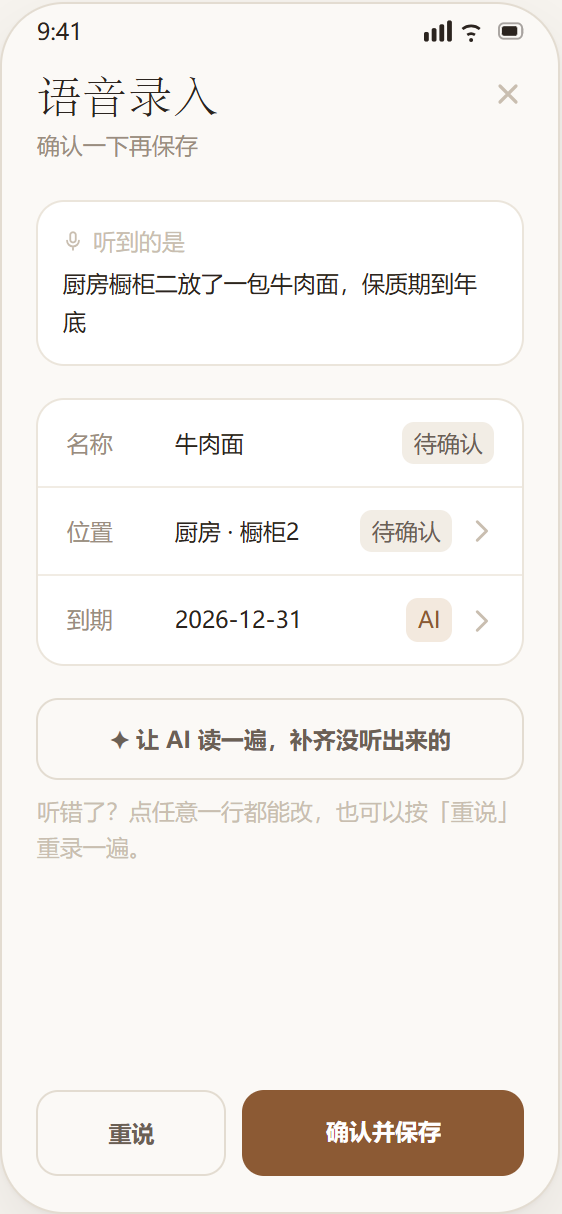
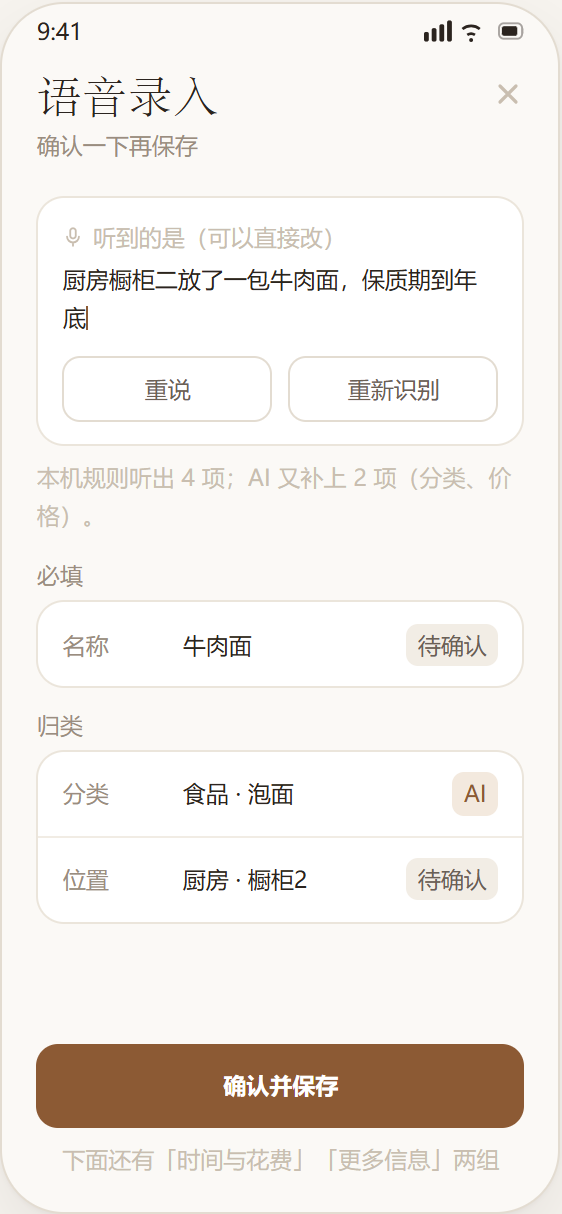
chore(screens): 界面稿与截图更新 —— 新增统计洞察 / 识物结果两屏
screens.html 补 16-stats / 17-scan-result 两屏，并同步录入、主题、AI 设置、语音的截图。

diff --git a/docs/screens.html b/docs/screens.html
@@ -144,11 +144,11 @@ footer{margin-top:80px;padding-top:28px;border-top:1px solid var(--line);font-fa
 <div class="wrap">
 
 <header class="cover">
-  <div class="eyebrow">收纳柜 App &middot; 界面设计 &middot; v2.0.0</div>
+  <div class="eyebrow">收纳柜 App &middot; 界面设计 &middot; v2.1.4</div>
   <h1>格物</h1>
   <p class="lede">东西放在哪，你记得，它也记得。一套以「位置」为骨架、以「持有成本」为情绪回报的本地收纳记录工具。</p>
   <div class="meta">
-    <span>15 屏</span>
+    <span>17 屏</span>
     <span>六套浅色 + 系统深色自动接管</span>
     <span>暖棕纸感 &middot; 衬线叙述</span>
     <span>Android &middot; 纯本地</span>
@@ -188,7 +188,7 @@ footer{margin-top:80px;padding-top:28px;border-top:1px solid var(--line);font-fa
   <div class="sec-head">
     <span class="sec-num">02</span>
     <h2>界面</h2>
-    <span class="note">十五屏 &middot; 前十屏按使用动线排列，后五屏是库存与 AI 功能的新界面</span>
+    <span class="note">十七屏 &middot; 前十屏按使用动线排列，后七屏是库存、AI 与统计功能的新界面</span>
   </div>
 
   <div class="screens">
@@ -361,6 +361,13 @@ footer{margin-top:80px;padding-top:28px;border-top:1px solid var(--line);font-fa
                 <svg width="20" height="20" viewBox="0 0 24 24" fill="none"><path d="M12 3.5l1.9 4.6 4.6 1.9-4.6 1.9-1.9 4.6-1.9-4.6L5.5 10l4.6-1.9z" stroke="#8C5A34" stroke-width="1.6" stroke-linejoin="round"/><path d="M18.5 16.5l.8 1.9 1.9.8-1.9.8-.8 1.9-.8-1.9-1.9-.8 1.9-.8z" stroke="#8C5A34" stroke-width="1.4" stroke-linejoin="round"/></svg>
                 <span style="color:#8C5A34">找封面</span>
               </div>
+              <!-- ★ 识物：同是实线品牌描边，但底色换成品牌浅底 —— 三个方块里它最像「主操作」。
+                   只有调用方（支持者档 + 已开 AI 且这家供应商能看图）传了处理函数才出现；
+                   表单自己不知道「支持者档」「有没有配 Key」这些事 -->
+              <div style="width:72px;height:72px;border-radius:11px;border:0.5px solid #8C5A34;background:#F3E9DE;display:flex;flex-direction:column;align-items:center;justify-content:center;gap:3px;flex:0 0 auto">
+                <svg width="20" height="20" viewBox="0 0 24 24" fill="none"><path d="M3.5 8V5.5a2 2 0 0 1 2-2H8M16 3.5h2.5a2 2 0 0 1 2 2V8M20.5 16v2.5a2 2 0 0 1-2 2H16M8 20.5H5.5a2 2 0 0 1-2-2V16M3.5 12h17" stroke="#8C5A34" stroke-width="1.6" stroke-linecap="round" stroke-linejoin="round"/></svg>
+                <span style="color:#8C5A34">识物</span>
+              </div>
             </div>
             <div style="color:#C9BEB0;margin-top:8px;padding:0 0 9px">图片会压缩后存入应用内，删除系统相册不影响这里</div>
           </div>
@@ -396,7 +403,7 @@ footer{margin-top:80px;padding-top:28px;border-top:1px solid var(--line);font-fa
           <div class="tb"><svg width="18" height="18" viewBox="0 0 24 24" fill="none"><circle cx="12" cy="8.2" r="3.6" stroke="#A99C8E" stroke-width="1.7"/><path d="M5 20c0-3.5 3.2-5.5 7-5.5s7 2 7 5.5" stroke="#A99C8E" stroke-width="1.7" stroke-linecap="round"/></svg><span>我的</span></div>
         </div>
       </div></div>
-      <figcaption><div class="no">03</div><div class="nm">录入 &middot; 连续录入模式</div><div class="ds">两个按钮上下叠、主按钮在上且更大：「保存并录下一件」优先于「保存并完成」。推进感靠标题下那句回执（「刚记下「X」，继续下一件」），不靠进度条 —— 上一版稿里的「第 3 件」进度条和「最多 9 张」并不存在。照片给两个入口：「添加」走本地相册，「找封面」要联网，用品牌色描边把这两件事区分开。照片这一组**没有卡片外壳**（方块自带描边，再套卡片就是两层边框）—— 卡片只给下面四组字段用，每张卡左右各留 17px，靠卡片自身的边距；这是页面上最容易漏的一处，漏了不报错、只是卡片顶到屏幕两边。这屏画到按钮为止，中间还有「归类 / 时间与花费 / 更多信息」三组字段，只有名称必填。「数量」排在「时间与花费」组里、「过期时间」下面那一行，占位提示是「留空 = 只此一件」—— <b>留空是单件物品，不是 0</b>，所以老用户不改任何东西，行为一个字节都不变。录入是 tab 路由，底部标签栏一直在；中央那颗 + 永远品牌色、永远不带文字，所以「当前在录入页」不会让标签栏有任何变化。</div></figcaption>
+      <figcaption><div class="no">03</div><div class="nm">录入 &middot; 连续录入模式</div><div class="ds">两个按钮上下叠、主按钮在上且更大：「保存并录下一件」优先于「保存并完成」。推进感靠标题下那句回执（「刚记下「X」，继续下一件」），不靠进度条 —— 上一版稿里的「第 3 件」进度条和「最多 9 张」并不存在。照片给三个入口：「添加」走本地相册，「找封面」要联网，「识物」要联网 + 花你自己的 Key —— 后两个用品牌色区分开，识物再加一层品牌浅底，三个方块里它最像主操作。<b>识物只在支持者档 + AI 已开 + 这家供应商看得懂图时才出现</b>（表单不知道这三件事，由调用方决定传不传处理函数）—— 留一个点下去必然报错的按钮，比没有这个按钮更糟。照片这一组**没有卡片外壳**（方块自带描边，再套卡片就是两层边框）—— 卡片只给下面四组字段用，每张卡左右各留 17px，靠卡片自身的边距；这是页面上最容易漏的一处，漏了不报错、只是卡片顶到屏幕两边。这屏画到按钮为止，中间还有「归类 / 时间与花费 / 更多信息」三组字段，只有名称必填。「数量」排在「时间与花费」组里、「过期时间」下面那一行，占位提示是「留空 = 只此一件」—— <b>留空是单件物品，不是 0</b>，所以老用户不改任何东西，行为一个字节都不变。录入是 tab 路由，底部标签栏一直在；中央那颗 + 永远品牌色、永远不带文字，所以「当前在录入页」不会让标签栏有任何变化。</div></figcaption>
     </figure>
 
     <!-- 04 -->
@@ -1049,14 +1056,15 @@ footer{margin-top:80px;padding-top:28px;border-top:1px solid var(--line);font-fa
           <div style="color:#C9BEB0;margin-top:5px">没有 Key？到 bigmodel.cn 手机号注册即领 <span style="color:#8C5A34">↗</span></div>
         </div>
 
-        <!-- ★ 语音单列一行：它跟上面两个不是一回事 —— 不需要 Key、不联网、也不申请麦克风权限。
-             不写清这一点，用户会以为「关掉 AI 就没有语音录入」 -->
+        <!-- ★ 语音单列一行：它跟上面两个不是一回事 —— 不需要 Key、不联网、也不申请麦克风权限
+             （走系统识别对话框）。所以它的值写「不耗 Key」而不是「免费」——
+             它与识物、问答同属支持者档，共用上面那个总闸，写「免费」会被读成「整件事不要钱」 -->
         <div style="padding:10px 17px 0;flex:0 0 auto">
           <div style="color:#9A8D80;padding-bottom:5px">模型</div>
           <div style="background:#fff;border:0.5px solid #EBE5DB;border-radius:14px;overflow:hidden">
             <div class="fr"><span class="fk">识图</span><span class="fv">GLM-4.6V-Flash · 免费</span></div>
             <div class="fr"><span class="fk">问答</span><span class="fv">GLM-4.7-Flash · 免费</span></div>
-            <div class="fr"><span class="fk">语音</span><span class="fv">系统识别 · 免费</span></div>
+            <div class="fr"><span class="fk">语音</span><span class="fv">系统识别 · 不耗 Key</span></div>
           </div>
         </div>
 
@@ -1073,8 +1081,7 @@ footer{margin-top:80px;padding-top:28px;border-top:1px solid var(--line);font-fa
           </div>
         </div>
       </div></div>
-      <figcaption><div class="no">13</div><div class="nm">AI 助手 &middot; 设置页</div><div class="ds">这一页要把三件事同时说清，缺一件用户就会犹豫：<b>要不要花钱</b>（两个模型都是免费档，写在模型行上，不藏在说明里）、<b>数据去哪了</b>（上传的只是 ≤1024px 压缩副本）、<b>关掉会怎样</b>（关掉开关等于这条链路不存在，其它功能一个不少）。所以顺序是「总开关 → 凭证 → 模型 → 用量 → 隐私」—— 先答「会不会偷偷联网」，再轮到「Key 怎么填」。<br>用量卡是刻意的：让用户随时看见花了多少钱，他才有底气把开关一直开着。这里恒为 &#165;0.00（两个模型都免费），但那个数字仍然由 <code>estimateMonthlyCost</code> 算出来而不是写死 —— 将来换一档模型，它会自己变。<br><b>语音单独一行</b>，因为它跟上面两个不是一回事：不需要 Key、不联网、也不申请麦克风权限（走系统识别对话框）。不写清这一点，用户会以为「关掉 AI 就没有语音录入」。<br>这一页是长页，稿子画到用量卡为止；下面还有一张「隐私」卡。未激活的档位进来时整页只剩一句解释与一个出口 —— <b>不做成「能看不能按」，灰按钮看起来像坏了</b>，而用户真正需要的是知道怎么解锁。</div></figcaption>
-    </figure>
+      <figcaption><div class="no">13</div><div class="nm">AI 助手 &middot; 设置页</div><div class="ds">这一页要把三件事同时说清，缺一件用户就会犹豫：<b>要不要花钱</b>（两个模型都是免费档，写在模型行上，不藏在说明里）、<b>数据去哪了</b>（上传的只是 ≤1024px 压缩副本）、<b>关掉会怎样</b>（关掉开关等于这条链路不存在，其它功能一个不少）。所以顺序是「总开关 → 凭证 → 模型 → 用量 → 隐私」—— 先答「会不会偷偷联网」，再轮到「Key 怎么填」。<br>用量卡是刻意的：让用户随时看见花了多少钱，他才有底气把开关一直开着。这里恒为 &#165;0.00（两个模型都免费），但那个数字仍然由 <code>estimateMonthlyCost</code> 算出来而不是写死 —— 将来换一档模型，它会自己变。<br><b>语音单独一行</b>，因为它跟上面两个不是一回事：不需要 Key、不联网、也不申请麦克风权限（走系统识别对话框），所以它的值写「不耗 Key」而非「免费」—— 它与识物、问答同属支持者档，共用上面那个总闸；写「免费」会被读成「整件事不要钱」。<br>这一页是长页，稿子画到用量卡为止；下面还有一张「隐私」卡。未激活的档位进来时整页只剩一句解释与一个出口 —— <b>不做成「能看不能按」，灰按钮看起来像坏了</b>，而用户真正需要的是知道怎么解锁。</div></figcaption>    </figure>
 
     <!-- 14 -->
     <figure class="fig" data-slug="ask">
@@ -1149,55 +1156,150 @@ footer{margin-top:80px;padding-top:28px;border-top:1px solid var(--line);font-fa
           <svg width="16" height="16" viewBox="0 0 16 16" fill="none" style="margin-top:4px;flex:0 0 auto"><path d="M4 4l8 8M12 4l-8 8" stroke="#C9BEB0" stroke-width="1.6" stroke-linecap="round"/></svg>
         </div>
 
-        <div style="padding:18px 17px 0;flex:0 0 auto">
+        <!-- ★ 转写卡走在 ItemForm 的 header 插槽里，与字段一起滚 ——
+             外面再套一层滚动容器会让两个垂直 ScrollView 抢手势。
+             转写那句话**可直接编辑**：听错一个字不必重说整句，
+             「重说」要重走一遍系统识别框，还不一定比上次准 -->
+        <div style="padding:16px 17px 0;flex:0 0 auto">
           <div style="background:#fff;border:0.5px solid #EBE5DB;border-radius:14px;padding:11px 12px">
-            <div style="display:flex;align-items:center;gap:4px;color:#C9BEB0"><svg width="11" height="11" viewBox="0 0 24 24" fill="none"><rect x="9" y="2.5" width="6" height="11" rx="3" stroke="#C9BEB0" stroke-width="2"/><path d="M5.5 11.5a6.5 6.5 0 0 0 13 0M12 18v3.5" stroke="#C9BEB0" stroke-width="2" stroke-linecap="round"/></svg>听到的是</div>
-            <div style="margin-top:3px;line-height:1.7">厨房橱柜二放了一包牛肉面，保质期到年底</div>
+            <div style="display:flex;align-items:center;gap:4px;color:#C9BEB0"><svg width="11" height="11" viewBox="0 0 24 24" fill="none"><rect x="9" y="2.5" width="6" height="11" rx="3" stroke="#C9BEB0" stroke-width="2"/><path d="M5.5 11.5a6.5 6.5 0 0 0 13 0M12 18v3.5" stroke="#C9BEB0" stroke-width="2" stroke-linecap="round"/></svg>听到的是（可以直接改）</div>
+            <div style="margin-top:3px;line-height:1.7">厨房橱柜二放了一包牛肉面，保质期到年底<span style="display:inline-block;width:1.5px;height:12px;background:#8C5A34;vertical-align:-2px"></span></div>
+            <div style="display:flex;gap:8px;margin-top:9px">
+              <div style="flex:1;text-align:center;padding:7px;border-radius:9px;border:0.5px solid #E3DCD1;color:#6B6055">重说</div>
+              <div style="flex:1;text-align:center;padding:7px;border-radius:9px;border:0.5px solid #E3DCD1;color:#6B6055">重新识别</div>
+            </div>
           </div>
+          <!-- 照实说 AI 那一步的结果：写「已让 AI 读过一遍」是假话，
+               失败时用户会以为「这么简单都识别不了」，而真相可能是「模型根本没连上」 -->
+          <div style="color:#C9BEB0;margin-top:7px;line-height:1.6">本机规则听出 4 项；AI 又补上 2 项（分类、价格）。</div>
         </div>
 
-        <!-- ★ 行尾那枚小标的两种含义必须分得开：
-             「待确认」＝本地规则听出来的，「AI」＝模型补出来的，后者把握更小 -->
-        <div style="padding:16px 17px 0;flex:0 0 auto">
+        <!-- ★ 下面是**手动录入那张表**（ItemForm）：语音页不再自己造一套字段。
+             所以「语音能填哪些东西」与「手动能填哪些东西」永远一致 ——
+             上一版在语音页另画三行，于是「价格 / 购买日期 / 库存说了也白说」。
+             行尾那枚小标的两种含义必须分得开：「待确认」＝本地规则听出来的，
+             「AI」＝模型补出来的，后者把握更小；模型只补空着的行，绝不覆盖已有值 -->
+        <div style="margin:12px 17px 0;flex:0 0 auto">
+          <div style="color:#9A8D80;margin-bottom:4px">必填</div>
           <div style="background:#fff;border:0.5px solid #EBE5DB;border-radius:14px;overflow:hidden">
-            <div style="display:flex;align-items:center;gap:8px;padding:11px 14px;border-bottom:0.5px solid #F1ECE4">
-              <span style="color:#9A8D80;width:46px;flex:0 0 auto">名称</span>
-              <span style="flex:1;min-width:0;font-weight:500">牛肉面</span>
-              <span class="tgn" style="color:#6B6055">待确认</span>
-            </div>
-            <div style="display:flex;align-items:center;gap:8px;padding:11px 14px;border-bottom:0.5px solid #F1ECE4">
-              <span style="color:#9A8D80;width:46px;flex:0 0 auto">位置</span>
-              <span style="flex:1;min-width:0;font-weight:500">厨房 &middot; 橱柜2</span>
-              <span class="tgn" style="color:#6B6055">待确认</span>
-              <svg width="13" height="13" viewBox="0 0 14 14" fill="none" style="flex:0 0 auto"><path d="M5 2l5 5-5 5" stroke="#C9BEB0" stroke-width="1.6" stroke-linecap="round" stroke-linejoin="round"/></svg>
-            </div>
-            <div style="display:flex;align-items:center;gap:8px;padding:11px 14px">
-              <span style="color:#9A8D80;width:46px;flex:0 0 auto">到期</span>
-              <span style="flex:1;min-width:0;font-weight:500;font-variant-numeric:tabular-nums">2026-12-31</span>
-              <span class="tg">AI</span>
-              <svg width="13" height="13" viewBox="0 0 14 14" fill="none" style="flex:0 0 auto"><path d="M5 2l5 5-5 5" stroke="#C9BEB0" stroke-width="1.6" stroke-linecap="round" stroke-linejoin="round"/></svg>
-            </div>
+            <div class="fr" style="min-height:42px"><span class="fk" style="width:52px">名称</span><span class="fv" style="flex:1;text-align:left">牛肉面</span><span class="tgn" style="color:#6B6055">待确认</span></div>
+          </div>
+        </div>
+        <div style="margin:10px 17px 0;flex:0 0 auto">
+          <div style="color:#9A8D80;margin-bottom:4px">归类</div>
+          <div style="background:#fff;border:0.5px solid #EBE5DB;border-radius:14px;overflow:hidden">
+            <div class="fr" style="min-height:42px"><span class="fk" style="width:52px">分类</span><span class="fv" style="flex:1;text-align:left">食品 &middot; 泡面</span><span class="tg">AI</span></div>
+            <div class="fr" style="min-height:42px"><span class="fk" style="width:52px">位置</span><span class="fv" style="flex:1;text-align:left">厨房 &middot; 橱柜2</span><span class="tgn" style="color:#6B6055">待确认</span></div>
           </div>
         </div>
 
-        <!-- 「让 AI 读一遍」只在两条件下出现：这一档能用 AI，且确实还有没听出来的行。
-             三行都填上了就没有可补的，多一个按钮只是噪音。免费档不做灰按钮 ——
-             语音本身不该因为 AI 而被加门槛 -->
-        <div style="padding:16px 17px 0;flex:0 0 auto">
-          <div style="border:0.5px solid #E3DCD1;border-radius:11px;padding:11px;text-align:center;color:#6B6055;font-weight:600">✦ 让 AI 读一遍，补齐没听出来的</div>
-          <div style="color:#C9BEB0;margin-top:7px;line-height:1.6">听错了？点任意一行都能改，也可以按「重说」重录一遍。</div>
-        </div>
-
-        <div style="margin-top:auto;padding:0 17px 18px;display:flex;gap:8px;flex:0 0 auto">
-          <div style="flex:1;text-align:center;padding:12px;border-radius:11px;border:0.5px solid #E3DCD1;color:#6B6055;font-weight:600">重说</div>
-          <div style="flex:1.7;text-align:center;padding:12px;border-radius:11px;background:#8C5A34;color:#fff;font-weight:600">确认并保存</div>
+        <!-- 提交按钮由 ItemForm 出，整幅宽 —— 「重说」已经上移到转写卡里，
+             底部不再与它分权重。这屏画到「归类」为止：下面还有「时间与花费」
+             （购买日期 / 价格 / 过期时间 / 数量）与「更多信息」两组，与手动录入完全一致 -->
+        <div style="margin-top:auto;padding:12px 17px 18px;flex:0 0 auto">
+          <div style="text-align:center;padding:12px;border-radius:11px;background:#8C5A34;color:#fff;font-weight:600">确认并保存</div>
+          <div style="text-align:center;color:#C9BEB0;margin-top:7px">下面还有「时间与花费」「更多信息」两组</div>
         </div>
       </div></div>
-      <figcaption><div class="no">15</div><div class="nm">语音录入 &middot; 确认三行</div><div class="ds">一句话 → 三个字段。说的是「厨房橱柜二放了一包牛肉面，保质期到年底」，拿到的是 名称 牛肉面 / 位置 厨房&middot;橱柜2 / 到期 12-31，<b>然后停下来等你确认</b>。<br>三条不变量：<br>① <b>绝不直接入库</b>。识别有误差，结果一律先落到这三行里，点「确认并保存」才写库。<br>② <b>不申请录音权限</b>。识别走系统对话框，录音发生在识别器 App 里，格物的权限清单一个字节都不变 —— 代价是会离开 App、拿不到实时转写、部分 ROM 没有识别器。<br>③ <b>解析可以不准，界面必须诚实</b>。没听懂的行写「未识别」并留出改的入口，不拿一个猜出来的值冒充听懂了 —— 猜错的东西用户不一定发现，而「未识别」他一定会看见。<br>行尾那枚小标的两种含义必须分得开：「待确认」＝本地规则听出来的，「AI」＝模型补出来的，后者把握更小。<b>AI 只补空着的行，绝不覆盖已有值</b>，而且位置不参与 —— 模型不知道你的柜子叫什么，补出来的必然是编的。用户手动一动某一行，那一行的「AI」标就摘掉。<br>底部两个按钮 1 : 1.7，「重说」让位给「确认并保存」；待机态则是居中波形 + 一个「开始说话」大按钮。<b>波形是装饰不是音量表</b> —— 走系统识别时录音在另一个进程里，拿不到任何音频数据，所以只做匀速呼吸的错相动画，不做「跟着说话起伏」的假象：那会让人以为它真在听。</div></figcaption>
+      <figcaption><div class="no">15</div><div class="nm">语音录入 &middot; 转写 + 复用录入表单</div><div class="ds">说的是「厨房橱柜二放了一包牛肉面，保质期到年底」，拿到的是 名称 牛肉面 / 分类 食品&middot;泡面 / 位置 厨房&middot;橱柜2，<b>然后停下来等你确认</b>。<br>★ <b>这一页复用的就是手动录入那张表</b>（ItemForm，隐去照片区、顶部插一张转写卡）。上一版语音页自己另写了一套三行字段，于是「价格 / 购买日期 / 库存说了也白说」——那三项在手动表单里一直都在，只是语音这条路没接上。<b>同一件事两套实现，代价就是「支持哪些属性」要在两边各答一遍，然后必然答歪一边。</b>现在表单加字段，语音这条路自动跟上，不用改三遍。<br>三条不变量：<br>① <b>绝不直接入库</b>。识别有误差，结果一律先落到字段里，点「确认并保存」才写库。<br>② <b>不申请录音权限</b>。识别走系统对话框，录音发生在识别器 App 里，格物的权限清单一个字节都不变 —— 代价是会离开 App、拿不到实时转写、部分 ROM 没有识别器。<br>③ <b>解析可以不准，界面必须诚实</b>。没听懂的行留空并留出改的入口，不拿一个猜出来的值冒充听懂了。<br>转写卡里那句话<b>可以直接改</b>：听错一个字不必重说整句（「重说」要重走一遍系统识别框，还不一定比上次准），改完按「重新识别」按新文字重跑一次。卡下那行小字是 AI 那一步的<b>照实汇报</b>——「本地规则听出 4 项；AI 又补上 2 项」。上一版无论成败都写「已让 AI 读过一遍」，那是假话：「模型没连上」与「本机规则没听懂」这两件完全不同的事，在用户眼里长得一样。<br>行尾那枚小标的两种含义必须分得开：「待确认」＝本地规则听出来的，「AI」＝模型补出来的，后者把握更小。<b>AI 只补空着的行，绝不覆盖已有值</b>，而且位置不参与 —— 模型不知道你的柜子叫什么，补出来的必然是编的。用户手动一动某一行，那一行的「AI」标就摘掉。<br>底部只剩一个整幅宽的「确认并保存」——「重说」已经上移到转写卡里，不再分权重；待机态则是居中波形 + 一个「开始说话」大按钮。<b>波形是装饰不是音量表</b> —— 走系统识别时录音在另一个进程里，拿不到任何音频数据，所以只做匀速呼吸的错相动画，不做「跟着说话起伏」的假象：那会让人以为它真在听。</div></figcaption>
     </figure>
 
-  </div>
-</section>
+    <!-- 16 -->
+    <figure class="fig" data-slug="stats">
+      <div class="shot"><div class="ph">
+        <div class="sb"><span style="font-weight:500">9:41</span><svg width="50" height="11" viewBox="0 0 52 11" fill="none"><rect x="0" y="6" width="2.5" height="5" rx="1" fill="#2B241F"/><rect x="4" y="4" width="2.5" height="7" rx="1" fill="#2B241F"/><rect x="8" y="2" width="2.5" height="9" rx="1" fill="#2B241F"/><rect x="12" y="0" width="2.5" height="11" rx="1" fill="#2B241F"/><path d="M20 4.5a7 7 0 0 1 9 0" stroke="#2B241F" stroke-width="1.4" fill="none"/><path d="M22.5 7.5a3.5 3.5 0 0 1 4 0" stroke="#2B241F" stroke-width="1.4" fill="none"/><circle cx="24.5" cy="10.2" r="1" fill="#2B241F"/><rect x="39" y="1.5" width="12" height="8" rx="2.5" stroke="#2B241F" stroke-opacity=".4" fill="none"/><rect x="40.5" y="3" width="8" height="5" rx="1.2" fill="#2B241F"/><rect x="51.8" y="4" width="1.4" height="3" rx=".7" fill="#2B241F" fill-opacity=".4"/></svg></div>
+        <div style="padding:2px 17px 0;flex:0 0 auto">
+          <div style="width:27px;height:27px;border-radius:50%;background:#fff;border:0.5px solid #EBE5DB;display:flex;align-items:center;justify-content:center"><svg width="13" height="13" viewBox="0 0 14 14" fill="none"><path d="M9 2 4 7l5 5" stroke="#2B241F" stroke-width="1.7" stroke-linecap="round" stroke-linejoin="round"/></svg></div>
+        </div>
+        <div style="padding:4px 17px 0;flex:0 0 auto"><div class="hd">统计洞察</div></div>
+
+        <!-- 总览：MetricStrip「值在上、标签在下」。这一页是长页，稿子画到「每天在烧多少钱」为止 -->
+        <div style="margin:12px 17px 0;background:#fff;border-radius:12px;border:0.5px solid #EBE5DB;display:flex;overflow:hidden">
+          <div class="cell" style="flex:1;align-items:center;padding:9px 8px"><span style="font-size:13px;font-weight:600;font-variant-numeric:tabular-nums">329</span><span style="color:#9A8D80;margin-top:2px;font-size:11px">在库物品</span></div>
+          <div class="cell" style="flex:1;align-items:center;padding:9px 8px;border-left:0.5px solid #EBE5DB"><span style="font-size:13px;font-weight:600;font-variant-numeric:tabular-nums">&#165;42,680</span><span style="color:#9A8D80;margin-top:2px;font-size:11px">总价值</span></div>
+          <div class="cell" style="flex:1;align-items:center;padding:9px 8px;border-left:0.5px solid #EBE5DB"><span style="font-size:13px;font-weight:600;font-variant-numeric:tabular-nums;color:#8C5A34">&#165;38.60</span><span style="color:#9A8D80;margin-top:2px;font-size:10px">日均持有成本</span></div>
+        </div>
+        <!-- ★ 两处口径必须写在页面上：总价值的分母与日均合计的分母不是同一批人。
+             不写清楚，用户会拿日均去对逐件相加，对不上就以为数据错了 -->
+        <div style="color:#C9BEB0;margin:7px 17px 0;line-height:1.55">总价值按 268 件有价格的算；日均合计只算同时填了价格与购买日期的 251 件。</div>
+
+        <div style="margin:12px 17px 0;flex:0 0 auto">
+          <div style="display:flex;justify-content:space-between;align-items:baseline;gap:8px"><span style="font-weight:500">钱花在哪</span><span style="color:#C9BEB0">按分类合计</span></div>
+          <div style="background:#fff;border:0.5px solid #EBE5DB;border-radius:14px;margin-top:6px;padding:9px 11px">
+            <div style="display:flex;align-items:center;gap:8px;padding:5px 0"><span style="color:#6B6055;width:34px;flex:0 0 auto">数码</span><div style="flex:1;height:8px;border-radius:4px;background:#F2EDE5;overflow:hidden"><div style="width:100%;height:100%;border-radius:4px;background:#8C5A34"></div></div><span style="width:52px;text-align:right;flex:0 0 auto">&#165;18,420</span></div>
+            <div style="display:flex;align-items:center;gap:8px;padding:5px 0;border-top:0.5px solid #F1ECE4"><span style="color:#6B6055;width:34px;flex:0 0 auto">家电</span><div style="flex:1;height:8px;border-radius:4px;background:#F2EDE5;overflow:hidden"><div style="width:54%;height:100%;border-radius:4px;background:#9A8D80"></div></div><span style="width:52px;text-align:right;flex:0 0 auto">&#165;9,860</span></div>
+            <div style="display:flex;align-items:center;gap:8px;padding:5px 0;border-top:0.5px solid #F1ECE4"><span style="color:#6B6055;width:34px;flex:0 0 auto">工具</span><div style="flex:1;height:8px;border-radius:4px;background:#F2EDE5;overflow:hidden"><div style="width:28%;height:100%;border-radius:4px;background:#9A8D80"></div></div><span style="width:52px;text-align:right;flex:0 0 auto">&#165;5,240</span></div>
+            <div style="display:flex;align-items:center;gap:8px;padding:5px 0;border-top:0.5px solid #F1ECE4"><span style="color:#9A8D80;width:34px;flex:0 0 auto">其他</span><div style="flex:1;height:8px;border-radius:4px;background:#F2EDE5;overflow:hidden"><div style="width:50%;height:100%;border-radius:4px;background:#D8D0C4"></div></div><span style="width:52px;text-align:right;flex:0 0 auto;color:#9A8D80">&#165;9,160</span></div>
+          </div>
+          <!-- 满格基准是榜首那一类，不是总额；汇总项永远排最后、数字转灰 -->
+          <div style="color:#C9BEB0;margin-top:6px;line-height:1.55">条长以最高的一类为满格。合计 &#165;42,680 与上方「总价值」同源。</div>
+        </div>
+
+        <div style="margin:10px 17px 0;flex:0 0 auto">
+          <div style="display:flex;justify-content:space-between;align-items:baseline;gap:8px"><span style="font-weight:500">每天在烧多少钱</span><span style="color:#C9BEB0">持有成本最高的 3 件</span></div>
+          <div style="background:#fff;border:0.5px solid #EBE5DB;border-radius:14px;margin-top:6px;overflow:hidden">
+            <div class="fr" style="min-height:34px"><span class="fv" style="flex:1;text-align:left;white-space:nowrap;overflow:hidden;text-overflow:ellipsis">iPhone 15 Pro</span><span style="color:#9A8D80">322 天</span><span class="fv" style="width:56px">&#165;24.40<span style="color:#9A8D80;font-weight:400">/天</span></span></div>
+            <div class="fr" style="min-height:34px"><span class="fv" style="flex:1;text-align:left;white-space:nowrap;overflow:hidden;text-overflow:ellipsis">博世冲击钻</span><span style="color:#9A8D80">803 天</span><span class="fv" style="width:56px">&#165;0.58<span style="color:#9A8D80;font-weight:400">/天</span></span></div>
+            <div class="fr" style="min-height:34px"><span class="fv" style="flex:1;text-align:left;white-space:nowrap;overflow:hidden;text-overflow:ellipsis">人体工学椅</span><span style="color:#9A8D80">46 天</span><span class="fv" style="width:56px">&#165;32.60<span style="color:#9A8D80;font-weight:400">/天</span></span></div>
+          </div>
+          <div style="color:#C9BEB0;margin-top:6px;line-height:1.55">摆天数而不是再给一个金额：日均高有两种原因 —— 贵，还是刚买。</div>
+        </div>
+      </div></div>
+      <figcaption><div class="no">16</div><div class="nm">统计洞察 &middot; 钱花在哪、每天烧多少</div><div class="ds">四块：<b>总览</b>（多少件、总价值、日均持有成本）、<b>钱花在哪</b>（按分类合计的条形）、<b>每天在烧多少钱</b>（持有成本最高的几件）、<b>柜子都塞满了吗</b>与<b>最近半年</b>（入库趋势，这屏画不下，在下面）。<br>★ <b>两处口径必须写在页面上</b>，这是这一页最容易挨骂的地方：总价值的分母是「填了价格的 268 件」，日均合计的分母是「价格与购买日期都齐备的 251 件」——<b>两个数的样本不一样</b>。不写清楚，用户会拿日均去对逐件相加，对不上就以为数据算错了。所以每个数字旁边都标样本数，条形图下面也再写一句「与上方总价值同源」。<br><b>条形图以最大值为满格，不是按占比。</b>只有两件东西时按占比画两根条都会顶满，看着像坏了；按最大值基准，差距才看得出来。汇总项「其他」永远排最后、数字转灰——插在中间会打断「谁最烧钱」的阅读顺序。<br>「每天在烧多少钱」旁边摆的是<b>天数而不是又一个金额</b>：日均高有两种原因，贵，或者刚买，光看钱分不出来。算法与详情页那张成本卡同一套，缺价格或购买日期的物品不出现在这里。<br>排行不足三行时整块收起（两块东西排「前十」是凑数）；「记了东西但一件都没填价格」会得到一条卡内提示，而不是一个空页面。<br>空库时整页换成一句「先记几件东西，这里会告诉你钱花在哪、每天在烧多少、柜子塞到几成」，给一个「去记一件」的出口。未激活的支持者档进来时整页只剩一句解释与一个出口 —— 与 AI 助手那一页同构，<b>不做成「能看不能按」</b>。</div></figcaption>
+    </figure>
+
+    <!-- 17 -->
+    <figure class="fig" data-slug="scan-result">
+      <div class="shot"><div class="ph">
+        <div class="sb"><span style="font-weight:500">9:41</span><svg width="50" height="11" viewBox="0 0 52 11" fill="none"><rect x="0" y="6" width="2.5" height="5" rx="1" fill="#2B241F"/><rect x="4" y="4" width="2.5" height="7" rx="1" fill="#2B241F"/><rect x="8" y="2" width="2.5" height="9" rx="1" fill="#2B241F"/><rect x="12" y="0" width="2.5" height="11" rx="1" fill="#2B241F"/><path d="M20 4.5a7 7 0 0 1 9 0" stroke="#2B241F" stroke-width="1.4" fill="none"/><path d="M22.5 7.5a3.5 3.5 0 0 1 4 0" stroke="#2B241F" stroke-width="1.4" fill="none"/><circle cx="24.5" cy="10.2" r="1" fill="#2B241F"/><rect x="39" y="1.5" width="12" height="8" rx="2.5" stroke="#2B241F" stroke-opacity=".4" fill="none"/><rect x="40.5" y="3" width="8" height="5" rx="1.2" fill="#2B241F"/><rect x="51.8" y="4" width="1.4" height="3" rx=".7" fill="#2B241F" fill-opacity=".4"/></svg></div>
+        <div style="padding:2px 17px 0;display:flex;align-items:flex-start;justify-content:space-between;gap:8px;flex:0 0 auto">
+          <div>
+            <div class="hd">录入</div>
+            <div style="color:#9A8D80;margin-top:3px">识别完成 &middot; 用时 1.2 秒</div>
+          </div>
+          <svg width="16" height="16" viewBox="0 0 16 16" fill="none" style="margin-top:4px;flex:0 0 auto"><path d="M4 4l8 8M12 4l-8 8" stroke="#C9BEB0" stroke-width="1.6" stroke-linecap="round"/></svg>
+        </div>
+
+        <!-- ★ 识物不另开一页：照片落进沙盒，识别结果**回填手动录入那张表** -->
+        <div style="margin:11px 17px 0;flex:0 0 auto">
+          <div style="color:#9A8D80;margin-bottom:4px">照片（1）</div>
+          <div style="display:flex;gap:8px;padding:4px 0">
+            <div style="width:72px;height:72px;border-radius:11px;border:0.5px solid #E3DCD1;background:#F5EFE0;display:flex;align-items:center;justify-content:center;flex:0 0 auto">
+              <svg width="26" height="26" viewBox="0 0 24 24" fill="none"><rect x="6" y="2.5" width="12" height="19" rx="2" stroke="#8A6B33" stroke-width="1.5"/><path d="M9.5 7h5M9.5 10.5h5" stroke="#8A6B33" stroke-width="1.4" stroke-linecap="round"/></svg>
+            </div>
+            <div style="width:72px;height:72px;border-radius:11px;border:0.5px dashed #E3DCD1;background:#FDFCFA;display:flex;flex-direction:column;align-items:center;justify-content:center;gap:3px;flex:0 0 auto">
+              <svg width="20" height="20" viewBox="0 0 24 24" fill="none"><rect x="2.5" y="6.5" width="19" height="13" rx="3" stroke="#9A8D80" stroke-width="1.6"/><circle cx="12" cy="13" r="3.4" stroke="#9A8D80" stroke-width="1.6"/><path d="M8.6 6.5 10 4.2h4l1.4 2.3" stroke="#9A8D80" stroke-width="1.6" stroke-linejoin="round"/></svg>
+              <span style="color:#9A8D80">添加</span>
+            </div>
+          </div>
+          <div style="color:#C9BEB0;margin-top:4px">识别副本已压到长边 1024px，原图留在本机</div>
+        </div>
+
+        <!-- 「AI」标 = 模型填的那一行，而且**可改**：用户动一下这一行，标就摘掉 -->
+        <div style="margin:9px 17px 0;flex:0 0 auto">
+          <div style="color:#9A8D80;margin-bottom:4px">归类</div>
+          <div style="background:#fff;border:0.5px solid #EBE5DB;border-radius:14px;overflow:hidden">
+            <div class="fr" style="min-height:40px"><span class="fk" style="width:52px">名称</span><span class="fv" style="flex:1;text-align:left;white-space:nowrap;overflow:hidden;text-overflow:ellipsis">康师傅老陈醋酸辣牛肉面</span><span class="tg">AI</span></div>
+            <div class="fr" style="min-height:40px"><span class="fk" style="width:52px">分类</span><span class="fv" style="flex:1;text-align:left">食品 &middot; 泡面</span><span class="tg">AI</span></div>
+          </div>
+        </div>
+        <div style="margin:9px 17px 0;flex:0 0 auto">
+          <div style="color:#9A8D80;margin-bottom:4px">时间与花费</div>
+          <div style="background:#fff;border:0.5px solid #EBE5DB;border-radius:14px;overflow:hidden">
+            <div class="fr" style="min-height:40px"><span class="fk" style="width:52px">价格</span><span class="fv" style="flex:1;text-align:left;font-variant-numeric:tabular-nums">&#165;6.50</span><span class="tg">AI</span></div>
+            <div class="fr" style="min-height:40px"><span class="fk" style="width:52px">过期时间</span><span class="fv" style="flex:1;text-align:left;font-variant-numeric:tabular-nums">2027-04-10</span><span class="tgn" style="color:#6B6055">按分类默认</span></div>
+          </div>
+        </div>
+
+        <!-- ★ 提示紧贴触发它的入口。上一版放在表单最底部，而识物按钮在页面顶部，
+             提示一直都在、只是没人会滚到底去看见它，观感就是「点了没反应」 -->
+        <div style="margin-top:auto;padding:12px 17px 18px;flex:0 0 auto">
+          <div style="text-align:center;color:#9A8D80;margin-bottom:7px">识别只是预填，保存前你说了算</div>
+          <div style="text-align:center;padding:12px;border-radius:11px;background:#8C5A34;color:#fff;font-weight:600">保存并录下一件</div>
+        </div>
+      </div></div>
+      <figcaption><div class="no">17</div><div class="nm">录入 &middot; 识物跑完之后</div><div class="ds">拍一张包装，回来看到的就是这一屏：名称、分类、价格、过期时间都已经填好，行尾挂着一枚「AI」标。<b>保存前你把关就行</b> —— 三十秒的敲字变成三秒。<br>★ <b>识物不另开一页。</b>它与语音走的是同一条路：结果回填「手动录入那张表」（见 15 屏）。这是刻意的 —— 另画一页就要在两边各答一遍「识物能填哪些字段」，然后必然有一边答歪；回填同一张表，表单加字段时两条路自动跟上。<br>「AI」标是<b>可改的</b>：用户一动某一行，那一行的标就摘掉 —— 标的意思是「这是机器填的、还没经过你」，不是「这一行属于 AI」。过期时间那行挂的是中性标「按分类默认」而不是 AI 标：它不是模型看出来的，是按分类的保质期规则算的。<b>哪一项是谁填的，界面照实说。</b><br>照片那一格是识别用的那张原图（已落进沙盒）；「添加」仍只走本机相册。旁边那行小字是唯一会被追问的事：<b>上传的只是长边 ≤1024px、JPEG 质量 0.8 的压缩副本</b>，原图与物品数据不出手机。<br>底部那句「识别只是预填，保存前你说了算」不能省 —— 上一版没有它，用户以为点了识物就直接入库了。提示的位置也比措辞重要：上一版把「缺 Key / 没开开关」的提示放在表单最底部，而识物按钮在页面顶部，<b>提示一直都在、只是没人会滚到底去看见它</b>，观感就是「点了没反应」。</div></figcaption>
+    </figure>
 
 <section>
   <div class="sec-head">
@@ -1218,7 +1320,7 @@ footer{margin-top:80px;padding-top:28px;border-top:1px solid var(--line);font-fa
 </section>
 
 <footer>
-  格物 &middot; 收纳柜 App &middot; 界面设计 v1.3.1 &middot; 依据《收纳柜App产品需求文档》V1 冻结范围绘制
+  格物 &middot; 收纳柜 App &middot; 界面设计 v2.1.4 &middot; 依据《收纳柜App产品需求文档》V1 冻结范围绘制
 </footer>
 
 </div>
